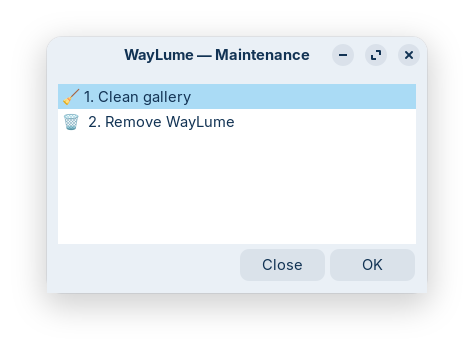
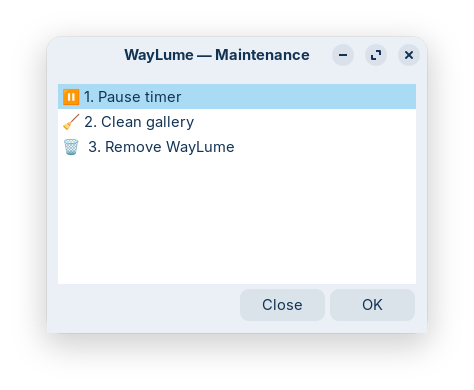
feat: timer pause/resume and local gallery source (v1.6.0)
- Add toggle_timer() to src/main.sh: systemctl --user stop/start
  waylume.timer; notify-send confirms action; dynamic label in menu
- Restructure menu_maintenance(): 3 items — timer toggle (item 1,
  dynamic ⏸/▶ label), clean gallery (item 2), uninstall (item 3)
- Add Timer status line to main menu header (5th line)
- Add 'Local' as a 5th image source in set_image_sources(): rotates
  existing gallery offline; skips download, validate_image and
  process_image; exits early after apply_wallpaper
- Add MSG_FETCH_SOURCE_LOCAL to i18n/pt.sh and en.sh
- Add LABEL_TIMER_ON/OFF, MENU_MAINTENANCE_1_ON/OFF/_2/_3,
  MSG_TIMER_PAUSED/RESUMED to src/i18n/pt.sh and en.sh
- Fix: stray quote in main menu --text= caused empty yad list
- Increase main menu height 340→365 for 5-line header
- Update screenshots: assets/pt/ and assets/en/ (all 3 submenus)
- Update docs: ROADMAP, README.pt/en, CHECKPOINT, DEVELOPER
- Bump version: 1.5.0 → 1.6.0

diff --git a/ROADMAP.md b/ROADMAP.md
@@ -17,7 +17,7 @@ It was born from a real gap left by Variety, which suffers from persistent insta
 ### Tools evaluated
 
 | Tool | Stars | Language | Status |
-|---|---|---|---|
+| --- | --- | --- | --- |
 | [Variety](https://github.com/varietywalls/variety) | 1,600 | Python 3 | ⚠ Maintenance mode |
 | [Bing GNOME Extension](https://github.com/neffo/bing-wallpaper-gnome-extension) | 358 | JavaScript | ✅ Active |
 | [Wallutils](https://github.com/xyproto/wallutils) | 516 | Go | ✅ Active |
@@ -27,16 +27,16 @@ It was born from a real gap left by Variety, which suffers from persistent insta
 ### Feature comparison
 
 | Feature | WayLume | Variety | Bing Ext. | Wallutils |
-|---|---|---|---|---|
+| --- | --- | --- | --- | --- |
 | Idle RAM usage | ✅ Zero | ❌ ~30 MB | ❌ (Shell ext.) | ✅ Zero |
 | Native Wayland | ✅ `gsettings` | ⚠ Unstable | ✅ Native | ✅ Yes |
 | Graphical UI | ✅ yad | ✅ GTK app | ✅ GNOME native | ❌ CLI only |
 | Online sources | 4 curated | 10+ (Wallhaven, Reddit…) | 1 (Bing only) | 0 (local only) |
-| Local folder as source | ❌ | ✅ | ❌ | ✅ |
+| Local folder as source | ✅ (v1.6.0) | ✅ | ❌ | ✅ |
 | Gallery curation (fav/trash) | ❌ | ✅ | ✅ | N/A |
 | Multi-monitor support | ❌ (head -1) | ✅ | ✅ | ✅ |
 | Title overlay | ✅ (toggleable) | ✅ (quotes/clock) | ❌ | ❌ |
-| Timer pause/resume | ❌ | ✅ (tray icon) | ✅ | N/A |
+| Timer pause/resume | ✅ (Maintenance menu) | ✅ (tray icon) | ✅ | N/A |
 | Distro packages | ❌ | ✅ apt/dnf/pacman | GNOME Extensions | ✅ Arch (pacman) |
 | Installation friction | ⭐ Minimal | ⚠ Python venv | ⭐ Extension manager | ⚠ Compile Go |
 | Active maintenance | ✅ | ⚠ | ✅ | ✅ |
@@ -77,9 +77,9 @@ It was born from a real gap left by Variety, which suffers from persistent insta
 
 - **No gallery curation** — no favorites or trash system. A user can't tell WayLume "never show this image again" without manually deleting the file.
 - **Blind gallery navigation** — no thumbnail preview, no position indicator ("3 of 47"). The user has no sense of where they are in the gallery.
-- **No timer pause/resume** — stopping automatic wallpaper changes requires uninstalling. A menu toggle that runs `systemctl --user stop/start waylume.timer` would solve this.
+- ~~**No timer pause/resume**~~ — **Fixed in v1.6.0:** ⏸/▶ toggle in the Maintenance submenu runs `systemctl --user stop/start waylume.timer`. Timer state shown in the main menu header.
 - **Overlay is baked into the image** — when an image enters the gallery, the overlay is already rendered. If the user disables the overlay later, old images still have it; new ones don't. This creates visual inconsistency when navigating the gallery.
-- **No local folder source** — a user with a personal photo collection cannot use it as a wallpaper source.
+- ~~**No local folder source**~~ — **Fixed in v1.6.0:** "Local" added as a source option in Settings; when selected, the timer rotates the existing gallery offline, with no download.
 
 ### Ecosystem and Distribution
 
@@ -97,9 +97,9 @@ It was born from a real gap left by Variety, which suffers from persistent insta
 These require no architectural changes and fit the current single-file model.
 
 | Priority | Feature | Rationale |
-|---|---|---|
-| 🔴 High | Timer pause/resume from menu | Today requires uninstalling; `systemctl --user stop/start` in the menu solves it |
-| 🔴 High | Local folder as wallpaper source | Removes the dependency on internet access; covers the largest user segment |
+| --- | --- | --- |
+| ✅ Done | Timer pause/resume from menu | **Implemented in v1.6.0.** ⏸/▶ toggle in Maintenance submenu; timer state shown in main menu header. |
+| ✅ Done | Local folder as wallpaper source | **Implemented in v1.6.0.** "Local" checkbox in Sources; timer rotates gallery offline; no download, no re-processing. |
 | 🟠 Medium | Gallery favorite/trash system | Allows curation; mirrors Variety and Bing Ext.; prevents unwanted images from reappearing |
 | 🟠 Medium | Position indicator in gallery navigation | "Image 3 of 47" in notify-send costs nothing and greatly improves UX |
 | 🟠 Medium | Overlay applied at display time, not baked in | Store the original image; apply overlay only at `apply_wallpaper` time via a temp file; eliminates inconsistency |
@@ -111,7 +111,7 @@ These require no architectural changes and fit the current single-file model.
 ### v2.x — Distribution and packaging
 
 | Priority | Feature | Rationale |
-|---|---|---|
+| --- | --- | --- |
 | 🔴 High | AUR package (`waylume`) | Immediate reach on Arch/Manjaro/EndeavourOS; easiest packaging path |
 | 🔴 High | GitHub Release with versioned tarball | Enables third-party packaging and reproducible installs |
 | 🟠 Medium | Debian/Ubuntu `.deb` package | Covers the largest Linux user base |
@@ -122,7 +122,7 @@ These require no architectural changes and fit the current single-file model.
 > Trigger: 5+ sources, or first external contributor, or GNOME dropping XWayland support.
 
 | Priority | Feature | Rationale |
-|---|---|---|
+| --- | --- | --- |
 | 🟠 Medium | `src/sources/` modularisation | Each source in its own file; clear interface contract; enables external contributions |
 | 🟠 Medium | Multi-monitor support | Detect all connected resolutions via `gdbus`/GSettings or Wayland protocol; one image per monitor |
 | 🟡 Low | Replace yad with zenity (or GTK4 native) | Eliminates XWayland dependency; future-proofs against GNOME dropping XWayland |
@@ -137,9 +137,9 @@ Multi-DE support was implemented in v1.5.0. All `gsettings` calls are now routed
 ### 6.1 Implemented changes
 
 | File | Function | Change |
-|---|---|---|
-| `src/fetcher.sh` | `_wl_set_wallpaper()` *(new)* | `case $XDG_CURRENT_DESKTOP` dispatcher — GNOME, ubuntu:GNOME, MATE, X-Cinnamon, KDE, XFCE, fallback |
-| `src/fetcher.sh` | `_wl_get_current_wallpaper()` *(new)* | Per-DE read-back; returns empty string for KDE (no clean CLI) |
+| --- | --- | --- |
+| `src/fetcher.sh` | `_wl_set_wallpaper()` _(new)_ | `case $XDG_CURRENT_DESKTOP` dispatcher — GNOME, ubuntu:GNOME, MATE, X-Cinnamon, KDE, XFCE, fallback |
+| `src/fetcher.sh` | `_wl_get_current_wallpaper()` _(new)_ | Per-DE read-back; returns empty string for KDE (no clean CLI) |
 | `src/fetcher.sh` | `apply_wallpaper()` | Replaced 2 `gsettings` lines with `_wl_set_wallpaper "$TARGET"` |
 | `src/fetcher.sh` | `prune_gallery()` | Replaced `gsettings get` with `_wl_get_current_wallpaper` |
 | `src/fetcher.sh` | MAIN section | Added `--set-wallpaper <path>` and `--get-current-wallpaper` CLI flags |
@@ -149,7 +149,7 @@ Multi-DE support was implemented in v1.5.0. All `gsettings` calls are now routed
 ### 6.2 Supported desktops
 
 | Desktop | Set mechanism | Read-back |
-|---|---|---|
+| --- | --- | --- |
 | GNOME / ubuntu:GNOME | `gsettings set org.gnome.desktop.background picture-uri` + `picture-uri-dark` | `gsettings get` |
 | MATE | `gsettings set org.mate.background picture-filename` (no `file://`) | `gsettings get` |
 | X-Cinnamon | `gsettings set org.cinnamon.desktop.background picture-uri` + `picture-uri-dark` | `gsettings get` |
@@ -164,7 +164,7 @@ Multi-DE support was implemented in v1.5.0. All `gsettings` calls are now routed
 Document as known limitations for now. **XFCE has been promoted from Tier 3 to supported in v1.5.0** — the "monitor name varies per system" blocker was resolved by enumerating existing `xfconf-query` properties instead of guessing names.
 
 | Desktop | Command | Blocker |
-|---|---|---|
+| --- | --- | --- |
 | **Xfce** | `xfconf-query -c xfce4-desktop -p /backdrop/screen0/monitor{N}/workspace0/last-image -s "$TARGET"` | Monitor name varies per system; multi-monitor = multiple INI paths |
 | **LXDE** | `pcmanfm --set-wallpaper "$TARGET"` | Requires pcmanfm running; display variable issues |
 | **LXQt** | `pcmanfm-qt --set-wallpaper "$TARGET"` | Same as LXDE |
@@ -176,7 +176,7 @@ Document as known limitations for now. **XFCE has been promoted from Tier 3 to s
 ### 6.3 Known limitations after v1.5.0
 
 | Desktop | Limitation |
-|---|---|
+| --- | --- |
 | KDE Plasma | No gallery read-back — `_wl_get_current_wallpaper` returns empty; gallery navigation starts from the first image |
 | KDE Plasma < 5.26 | `plasma-apply-wallpaperimage` not available; documented as unsupported |
 | Sway / Hyprland | Require a background process (`swaybg`, `hyprpaper`) — conflicts with the systemd oneshot model |

diff --git a/CHECKPOINT.md b/CHECKPOINT.md
@@ -9,14 +9,14 @@
 - **Repo:** github.com/andrecavalcantebr/waylume
 - **Branch:** main
 - **Latest commit:** see `git log` below
-- **Version:** `1.5.0`
+- **Version:** `1.6.0`
 - **Git log:**
 
   ```text
+  <hash>   feat: timer pause/resume in Maintenance menu (v1.6.0)
   <hash>   feat: multi-DE support — GNOME, MATE, Cinnamon, KDE, XFCE (v1.5.0)
   653b2d4  feat: overlay toggle, multi-DE roadmap, and docs update (v1.4.0)
   4e5a0c2  docs: fix markdownlint warnings in CHECKPOINT, README.en and README.pt
-  3b2e4c1  docs: update architecture decisions with modularisation and build evolution notes
   813701c  docs: update CHECKPOINT.md with final commit hash (v1.3.0)
   ```
 
@@ -27,14 +27,14 @@
 ```text
 waylume/
   src/
-    main.sh         (741 lines) — installer and GUI; placeholders ##FETCHER_CONTENT## ##ICON_CONTENT## ##I18N_PT## ##I18N_EN##
-    fetcher.sh      (523 lines) — systemd worker (waylume-fetch); multi-DE helpers; standalone-testable with: bash src/fetcher.sh
+    main.sh         (755 lines) — installer and GUI; placeholders ##FETCHER_CONTENT## ##ICON_CONTENT## ##I18N_PT## ##I18N_EN##
+    fetcher.sh      (529 lines) — systemd worker (waylume-fetch); multi-DE helpers; standalone-testable with: bash src/fetcher.sh
     waylume.svg     ( 22 lines) — application SVG icon
     i18n/
-      pt.sh         (133 lines) — all strings in Brazilian Portuguese
-      en.sh         (135 lines) — all strings in English
+      pt.sh         (142 lines) — all strings in Brazilian Portuguese
+      en.sh         (144 lines) — all strings in English
   build.sh          ( 50 lines) — combines the above files → waylume.sh; supports --install flag
-  waylume.sh        (1554 lines) — GENERATED ARTIFACT; do not edit directly
+  waylume.sh        (1592 lines) — GENERATED ARTIFACT; do not edit directly
   test_multi_de.sh               — mock-based smoke tests for multi-DE dispatch (29 assertions; no DE installation required)
   linuxtoys-pr/                  — material for the LinuxToys PR (see below)
     p3/scripts/utils/
@@ -183,8 +183,13 @@ notify-send "WayLume" "$(printf "${MSG_FETCH_INVALID_MIME}" "$MIME")"
 
 | # | Option | Handler |
 | --- | --- | --- |
-| 1 | 🧹 Clean gallery | `clean_gallery` |
-| 2 | 🗑 Remove WayLume | `uninstall` |
+| 1 | ⏸/▶ Pause / Resume timer | `toggle_timer` — dynamic label reflects current state |
+| 2 | 🧹 Clean gallery | `clean_gallery` |
+| 3 | 🗑 Remove WayLume | `uninstall` |
+
+#### Sources (5)
+
+`Bing`, `Unsplash`, `APOD`, `Wikimedia`, `Local` — comma-separated in `SOURCES` conf key; selected via checklist in Settings. `Local` skips download, `validate_image` and `process_image`; rotates existing gallery offline.
 
 #### Gallery navigation
 
@@ -212,6 +217,7 @@ notify-send "WayLume" "$(printf "${MSG_FETCH_INVALID_MIME}" "$MIME")"
 
 | Session | Bug | Fix |
 | --- | --- | --- |
+| 2026-04-30 | Main menu `--text=` — stray `\"` appended after closing `)` was passed as a literal argument to yad, displacing all list data → empty menu items | Removed the stray `\"` in `src/main.sh`; also increased `--height` 340 → 365 for 5-line header |
 | 2026-04-06 | `process_image` — Brand strip mostrava URL `is.gd/48OrTP` — não clicável no wallpaper, parece fraude | URL removida; nome `WayLume` centralizado (`-gravity North -annotate +0+17`) |
 | 2026-04-06 | `fetcher.sh` / `main.sh` — Overlay sempre ativo, sem controle do usuário | Adicionado `SHOW_OVERLAY=true/false` no conf; `set_overlay_toggle()` no submenu Settings (item 6); header do menu principal mostra o estado atual |
 | 2026-04-04 | `source waylume.conf` / `source waylume.state` — arbitrary code execution if file tampered | `_wl_read_keyval()`: safe `key=value` parser with explicit key whitelist, no `eval` |
@@ -271,7 +277,8 @@ SHOW_OVERLAY="true"
 - ~~**Brand URL in banner**~~ **FIXED (2026-04-06):** URL removida; nome `WayLume` centralizado
 - **APOD low resolution** — uses `url` (~960px) for speed, but `hdurl` (4K) is never offered
 - **No gallery size limit** — disk fills over time; no auto-cleanup of oldest files — **FIXED (2026-04-04):** `prune_gallery()` + `GALLERY_MAX_FILES=60`
-- **No timer pause/resume** — must uninstall/reinstall to stop; no toggle
+- ~~**No timer pause/resume**~~ — **FIXED (v1.6.0):** ⏸/▶ toggle in Maintenance submenu; `systemctl --user stop/start waylume.timer`; timer state in main menu header
+- ~~**No local folder source**~~ — **FIXED (v1.6.0):** "Local" added as a source option; timer rotates gallery offline, no download.
 - **Multiple monitors** — `process_image` uses only `head -1` monitor from `xrandr`
 - **xrandr fallback** — if `xrandr` fails (pure Wayland without XWayland), `process_image` exits silently with no resize
 
@@ -286,10 +293,11 @@ SHOW_OVERLAY="true"
 ### Functionality — gaps for future versions
 
 - ~~Option to disable/configure the title overlay and brand strip~~ **FIXED (2026-04-06)**
-- Gallery size limit (keep last N images)
+- ~~Gallery size limit (keep last N images)~~ **FIXED (2026-04-04)**
 - Multi-monitor support (detect all connected resolutions)
 - `hdurl` option for APOD (opt-in for 4K)
-- Timer pause/resume without uninstalling
+- ~~Timer pause/resume without uninstalling~~ **FIXED (v1.6.0)**
+- ~~Local folder as wallpaper source~~ **FIXED (v1.6.0)**
 - In-menu thumbnail preview of current wallpaper (yad supports `--image`)
 
 ---
@@ -318,52 +326,12 @@ SHOW_OVERLAY="true"
 
 ---
 
-## Next session agenda
+## Next session priorities
 
 > See also: [ROADMAP.md](ROADMAP.md) — strategic analysis, competitive comparison, and full roadmap.
 
-### 1. Screenshots
-
-Capturar novos screenshots que reflitam as mudanças da sessão 2026-04-06:
-
-- `screenshot-menu-main.png` — nova linha "Título nas imagens: ativado" no header
-- `screenshot-menu-settings.png` — item 6 (Título nas imagens) e item 7 (Sair)
-
-### 2. Source modularisation into `src/sources/` (future)
-
-`fetcher.sh` is at 384 lines with 4 sources. Modularise when reaching 5+ sources or external contributors:
-
-```text
-src/
-  sources/
-    bing.sh
-    unsplash.sh
-    apod.sh
-    wikimedia.sh
-  fetcher.sh   ← thin orchestrator (~60 lines)
-```
-
-Each source file: input `$TARGET_PATH`, output `$IMG_TITLE` + `$MESSAGE` + image written.
-
-### 3. Multi-DE support — DONE (v1.5.0)
-
-Implemented in session 2026-04-30. See [ROADMAP.md §6](ROADMAP.md) for the full implementation record.
-
-**What was done:**
-- `_wl_set_wallpaper()` + `_wl_get_current_wallpaper()` added to `src/fetcher.sh`
-- `--set-wallpaper` + `--get-current-wallpaper` CLI flags added to `waylume-fetch`
-- `apply_wallpaper()` and `prune_gallery()` refactored in `src/fetcher.sh`
-- `_gallery_navigate()` refactored in `src/main.sh`
-- `pin/unpin_from_favorites()` guarded for GNOME-only
-- XFCE support via `xfconf-query` property enumeration (multi-monitor automatic)
-- 29 mock-based smoke tests in `test_multi_de.sh` — no DE installation required
-
-### 4. Next session priorities
-
-1. **Screenshots** — capturar novos screenshots (menu principal + menu de configurações pós-v1.4.0)
-2. **Timer pause/resume** — `systemctl --user stop/start waylume.timer` no menu (🔴 High, ROADMAP §5)
-3. **Local folder as wallpaper source** — fonte para quem não quer internet (🔴 High, ROADMAP §5)
-4. **Position indicator** in gallery navigation — "Imagem 3 de 47" no notify-send (🟠 Medium)
+1. **Position indicator** in gallery navigation — "Imagem 3 de 47" no notify-send (🟠 Medium)
+2. **Source modularisation** — split `fetcher.sh` into `src/sources/{bing,unsplash,apod,wikimedia}.sh`; thin orchestrator; warranted at 5+ sources or first external contributor
 
 ---
 

diff --git a/README.pt.md b/README.pt.md
@@ -13,7 +13,7 @@ Ele foi criado para preencher a lacuna deixada por ferramentas como o Variety, q
 * **Consumo Zero:** Não roda em background. A GUI abre apenas quando você quer configurar. O Systemd cuida do agendamento.
 * **Agnóstico de Daemon:** Ao fechar a janela, nenhuma RAM é consumida pelo WayLume.
 * **Multi-Desktop:** Funciona no GNOME, ubuntu:GNOME, MATE, Cinnamon, KDE Plasma ≥ 5.26 e XFCE — detectado automaticamente via `XDG_CURRENT_DESKTOP`.
-* **Quatro Fontes de Imagens:** Bing (Foto do Dia), NASA APOD (Astronomy Picture of the Day), Unsplash e Wikimedia Picture of the Day — escolha uma ou mais.
+* **Cinco Fontes de Imagens:** Bing (Foto do Dia), NASA APOD (Astronomy Picture of the Day), Unsplash, Wikimedia Picture of the Day e **Galeria Local** (rotaciona suas imagens sem download) — escolha uma ou mais.
 * **Um Download por Fonte por Dia:** Cada fonte é limitada a uma nova imagem por dia. Nas execuções seguintes do timer, o WayLume rotaciona automaticamente pela galeria local — sem desperdício de banda.
 * **Limite da Galeria:** Número máximo de imagens configurado em disco (padrão: 60). As imagens mais antigas são removidas automaticamente após cada download.
 * **Título Sobreposto:** Quando disponível, o título da imagem e o nome **WayLume** são renderizados diretamente no wallpaper via ImageMagick. A sobreposição pode ser ativada ou desativada nas Configurações (padrão: ativada).
@@ -110,7 +110,7 @@ Uma janela de confirmação será exibida antes de qualquer remoção.
 | --- | --- |
 | 📂 Pasta da galeria | Diretório onde as fotos são armazenadas |
 | ⏱ Tempo de atualização | Com que frequência o timer troca o wallpaper (minutos ou horas) |
-| 🌍 Fontes de imagens | **Bing** (foto do dia), **Unsplash** (aleatória), **APOD** (NASA) e/ou **Wikimedia** (foto do dia) — cada fonte baixa no máximo uma imagem nova por dia |
+| 🌍 Fontes de imagens | **Bing** (foto do dia), **Unsplash** (aleatória), **APOD** (NASA), **Wikimedia** (foto do dia) e/ou **Local** (galeria local, sem internet) — cada fonte online baixa no máximo uma imagem nova por dia |
 | 🔑 API Key da NASA | Chave para a API do APOD (padrão: `DEMO_KEY`) |
 | 🖼 Limite da galeria | Número máximo de imagens mantidas no disco (0 = sem limite, padrão: 60) |
 | 🎨 Título nas imagens | Ativa ou desativa a exibição do título e do nome WayLume sobre o wallpaper (padrão: ativado) |
@@ -129,6 +129,7 @@ Obs. 2:
 
 | Opção | O que faz |
 | --- | --- |
+| ⏸/▶ Pausar / Retomar timer | Para ou reinicia o timer automático. O wallpaper não muda enquanto pausado; retomar não apaga a galeria |
 | 🧹 Limpar galeria | Remove da galeria arquivos corrompidos ou com MIME inválido |
 | 🗑 Remover WayLume | Desinstala completamente o WayLume. Sua galeria de fotos **não** é apagada |
 

diff --git a/README.en.md b/README.en.md
@@ -13,7 +13,7 @@ It was created to fill the gap left by tools like Variety, which face stability 
 * **Zero Resource Usage:** Doesn't run in the background. The GUI opens only when you want to configure. Systemd handles the scheduling.
 * **Daemon-Agnostic:** Once the window is closed, WayLume consumes no RAM.
 * **Multi-Desktop:** Works on GNOME, ubuntu:GNOME, MATE, Cinnamon, KDE Plasma ≥ 5.26, and XFCE — detected automatically via `XDG_CURRENT_DESKTOP`.
-* **Four Image Sources:** Bing (Photo of the Day), NASA APOD (Astronomy Picture of the Day), Unsplash, and Wikimedia Picture of the Day — choose one or more.
+* **Five Image Sources:** Bing (Photo of the Day), NASA APOD (Astronomy Picture of the Day), Unsplash, Wikimedia Picture of the Day, and **Local Gallery** (rotates your existing images offline, no download) — choose one or more.
 * **One Download Per Source Per Day:** Every source is capped at one new image per day. On subsequent timer runs, WayLume automatically rotates through the local gallery — no bandwidth waste.
 * **Gallery Size Limit:** Configurable maximum number of images kept on disk (default: 60). Oldest images are pruned automatically after each download.
 * **Overlaid Title:** When available, the image title and the **WayLume** name are rendered directly onto the wallpaper via ImageMagick. The overlay can be toggled on or off in Settings (default: on).
@@ -110,7 +110,7 @@ A confirmation dialog will be shown before anything is removed.
 | --- | --- |
 | 📂 Gallery folder | Directory where photos are stored |
 | ⏱ Update interval | How often the timer changes the wallpaper (minutes or hours) |
-| 🌍 Image sources | **Bing** (photo of the day), **Unsplash** (random), **APOD** (NASA) and/or **Wikimedia** (picture of the day) — each downloads at most one new image per day |
+| 🌍 Image sources | **Bing** (photo of the day), **Unsplash** (random), **APOD** (NASA), **Wikimedia** (picture of the day) and/or **Local** (local gallery, no internet) — each online source downloads at most one new image per day |
 | 🔑 NASA API Key | Key for the APOD API (default: `DEMO_KEY`) |
 | 🖼 Gallery limit | Maximum number of images kept on disk (0 = unlimited, default: 60) |
 | 🎨 Title overlay | Enables or disables the image title and WayLume name displayed on the wallpaper (default: on) |
@@ -129,6 +129,7 @@ Obs. 2:
 
 | Option | What it does |
 | --- | --- |
+| ⏸/▶ Pause / Resume timer | Stops or restarts the automatic timer. The wallpaper won’t change while paused; resuming does not clear the gallery |
 | 🧹 Clean gallery | Removes corrupted files or files with an invalid MIME type from the gallery |
 | 🗑 Remove WayLume | Completely uninstalls WayLume. Your photo gallery is **not** deleted |
 

diff --git a/DEVELOPER.md b/DEVELOPER.md
@@ -202,9 +202,11 @@ All code that previously called `gsettings set/get org.gnome.desktop.background`
 | `*` (unknown) | GNOME schema, `2>/dev/null \|\| true` | *(empty)* |
 
 **Testing without installing DEs:**
+
 ```bash
 bash test_multi_de.sh
 ```
+
 Mocks replace `gsettings`, `xfconf-query`, `plasma-apply-wallpaperimage`, `xrandr`, and `notify-send`. `XDG_CURRENT_DESKTOP` is overridden per scenario. 29 assertions.
 
 ---
@@ -349,7 +351,7 @@ Key timer options:
 | Deferred save pattern | User can make multiple config changes and apply (or discard) them all in one step |
 | Navigation in `main.sh`, not `fetcher.sh` | Navigation is instant GUI-only: no download, no ImageMagick; wrong layer for fetcher |
 | Multi-DE helpers in `fetcher.sh` | `fetcher.sh` is the primary consumer of wallpaper set/get; standalone-testable; `main.sh` calls them via CLI flags (`--set-wallpaper`, `--get-current-wallpaper`) to avoid cross-file coupling |
-| XFCE via `xfconf-query` property enumeration | Enumerating existing `last-image` properties handles multi-monitor setups automatically without guessing monitor names; `--create -t string` makes it idempotent | 
+| XFCE via `xfconf-query` property enumeration | Enumerating existing `last-image` properties handles multi-monitor setups automatically without guessing monitor names; `--create -t string` makes it idempotent |
 | Mock-based DE tests | Running actual DEs in CI is impractical; injecting `$PATH` mocks + overriding `XDG_CURRENT_DESKTOP` gives deterministic coverage of all dispatch branches |
 
 ---
